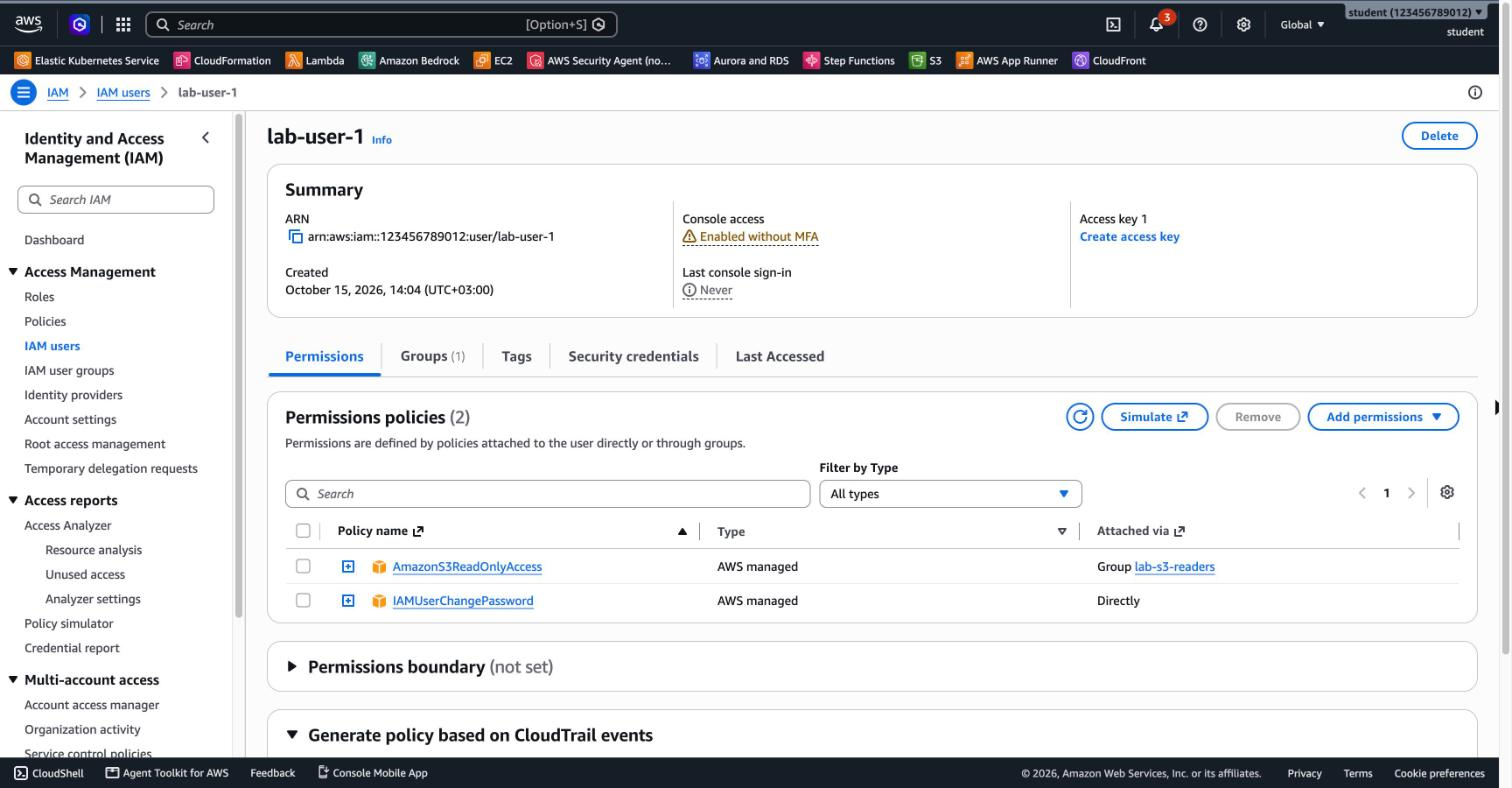
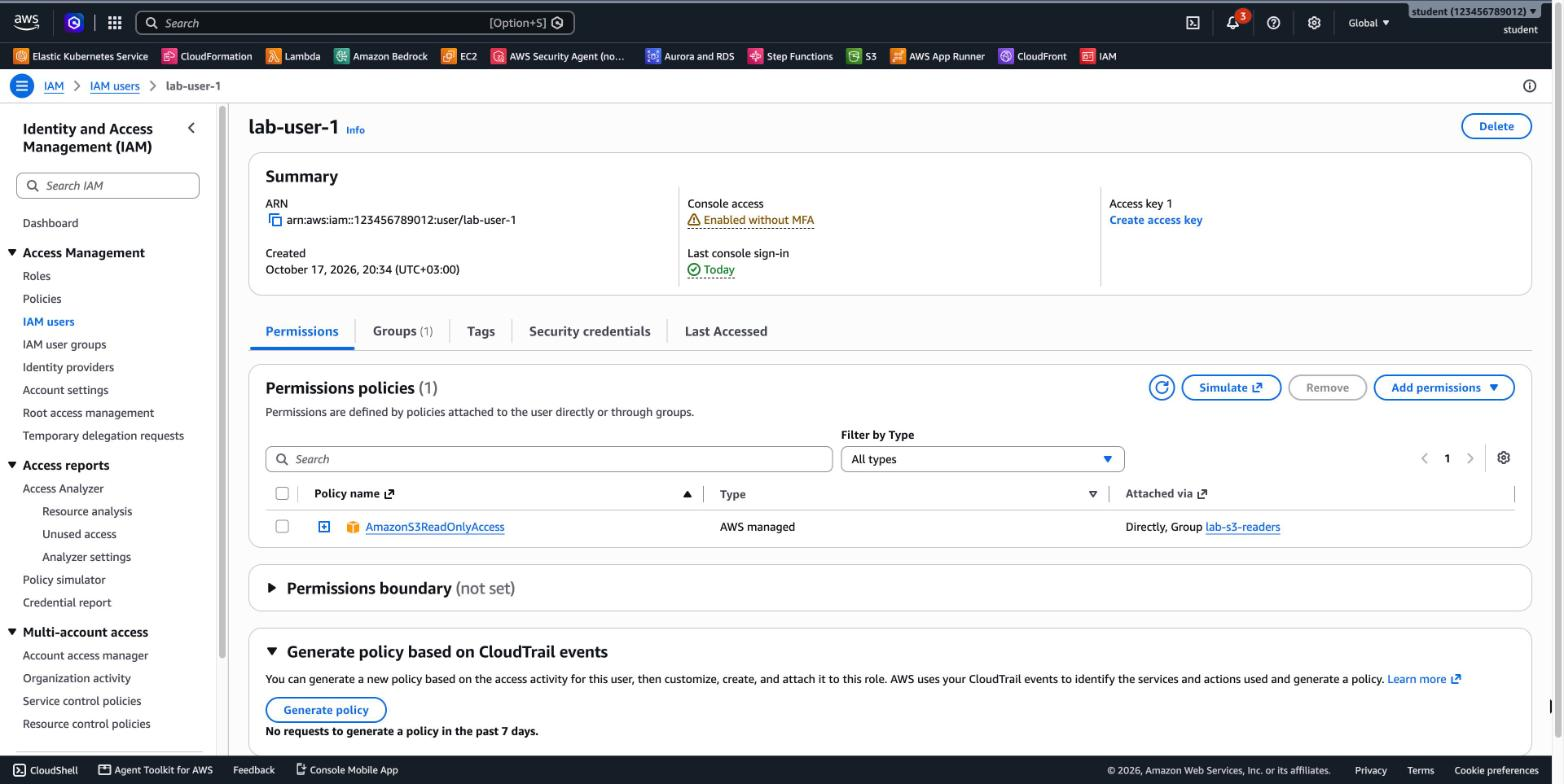
IAM labs: add direct policy attachment step and S3 prerequisite note
- Lab 1 solution: attach AmazonS3ReadOnlyAccess directly after user
  creation, new screenshot, updated permissions screenshot and answer
- Lab 2: note to complete 3.5 Amazon S3 first

diff --git a/2.1-iam/SOLUTION.md b/2.1-iam/SOLUTION.md
@@ -32,6 +32,15 @@
 
 8. Choose **Next → Create user**.
 
+### Step 3 (continued): Attach the policy directly to the user
+
+In the *Create user* wizard, **Add user to group** and **Attach policies directly** are **mutually exclusive** options, so you add the direct policy **after** the user is created:
+
+1. Open **Users → `lab-user-1`**. On the **Permissions** tab, choose **Add permissions → Add permissions**.
+2. Select **Attach policies directly**, search for `AmazonS3ReadOnlyAccess`, select it and choose **Next → Add permissions**.
+
+![Attach policy directly](images/04b-attach-policy-directly.jpg)
+
 ### Step 4: Sign-in URL
 
 The final screen shows the **Console sign-in URL**, in the form `https://<account-id>.signin.aws.amazon.com/console`. Copy it, or choose **Download .csv file**.
@@ -50,13 +59,16 @@ You can confirm the same result without signing in by using the **IAM Policy Sim
 
 ### Step 7: Where do the permissions come from?
 
-On the user's **Permissions** tab, `AmazonS3ReadOnlyAccess` is listed as **Attached via group `lab-s3-readers`**. You'll also see `IAMUserChangePassword` attached **directly**. AWS adds it automatically when you select *Users must create a new password at next sign-in*.
+On the user's **Permissions** tab, `AmazonS3ReadOnlyAccess` appears **once**, with **Attached via: Directly, Group `lab-s3-readers`**. The user gets the same permission from **two sources**.
+
+If you selected *Users must create a new password at next sign-in*, you'll also see `IAMUserChangePassword` attached **directly**. AWS adds it automatically so the user can set a new password.
 
 ![User permissions](images/07-user-permissions.jpg)
 
 ### Answers
 
 - **Group vs. user:** Groups make permissions easy to manage at scale. When a new person joins, you add them to the group. When they move teams, you remove them. You never edit per-user policies.
+  The direct attachment in step 3 shows the problem. If you now remove `lab-user-1` from the group, it **still** has S3 read access through the direct policy. Permissions attached directly to users are easy to forget, and they "leak" past group changes. In real accounts, avoid them and use groups or roles.
 - **Policy type:** `AmazonS3ReadOnlyAccess` is an **AWS managed** policy.
 - **Why the bucket creation fails:** Because of the **implicit deny**. Nothing allows `s3:CreateBucket`, and anything that isn't explicitly allowed is denied.
 
@@ -67,6 +79,8 @@ Delete the user `lab-user-1` (**Users → select → Delete**), then delete the 
 ---
 
 ## LAB 2 (Advanced): Least Privilege with the AWS CLI
+
+> Prerequisite: [3.5 Amazon S3](../3.5-s3/README.md). This lab assumes you know how to create a bucket and how bucket and object ARNs differ.
 
 > Tested with AWS CLI v2. Run the commands in one terminal session, because later steps use the shell variables from Part A.
 > IAM changes are **eventually consistent**. If a command fails with `InvalidClientTokenId` or `AccessDenied` right after a change, wait 10–15 seconds and try again.

diff --git a/2.1-iam/README.md b/2.1-iam/README.md
@@ -239,6 +239,7 @@ Grant **only** the permissions needed to perform a task, and nothing more.
    - Set an **autogenerated** or **custom** password.
    - Require the user to **create a new password at next sign-in**.
    - Add the user to the `lab-s3-readers` group.
+   - Add permissions by adding user to `AmazonS3ReadOnlyAccess` policies
 4. Copy the **console sign-in URL** from the final screen.
 5. Open a **private/incognito** browser window and sign in as `lab-user-1`.
 6. Verify the permissions:
@@ -256,6 +257,8 @@ Grant **only** the permissions needed to perform a task, and nothing more.
 ---
 
 ## 🧪 LAB 2 (Advanced): Least Privilege with the AWS CLI
+
+> 📌 **Before you start:** this lab uses **Amazon S3** (buckets, objects, bucket vs. object ARNs). If you haven't worked with S3 yet, first complete **[3.5 Amazon S3](../3.5-s3/README.md)**, at least the background, the permissions section and Lab 1. Then come back here and do this lab.
 
 **Goal:** Use the CLI to build a least-privilege user with a customer managed policy, see an explicit deny win over an allow, and use a role to get temporary credentials.
 
